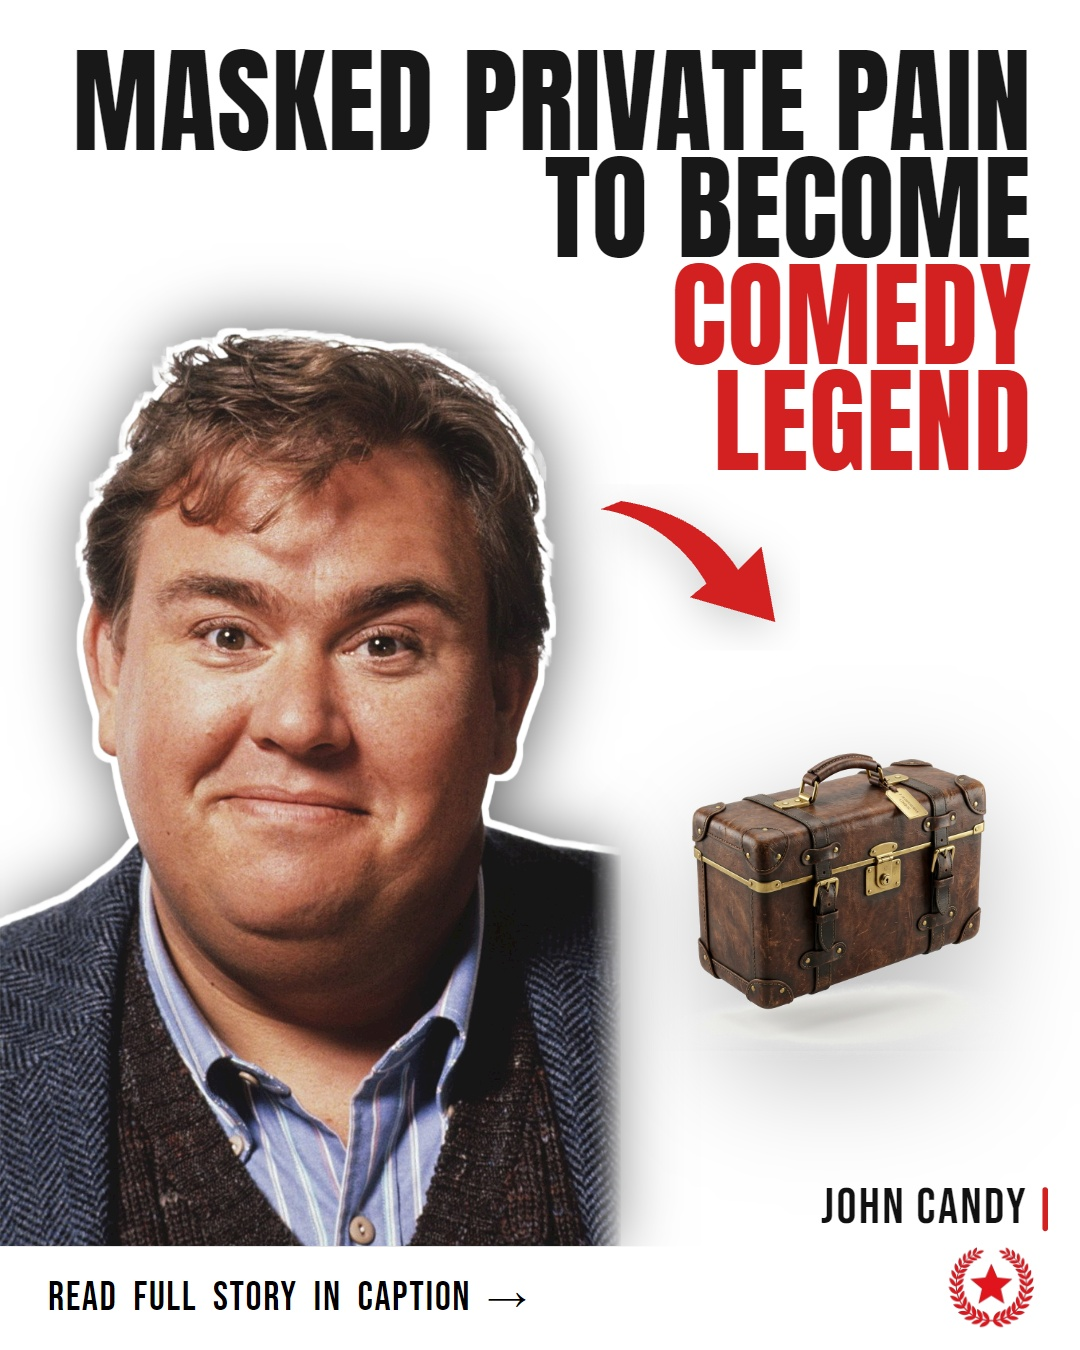
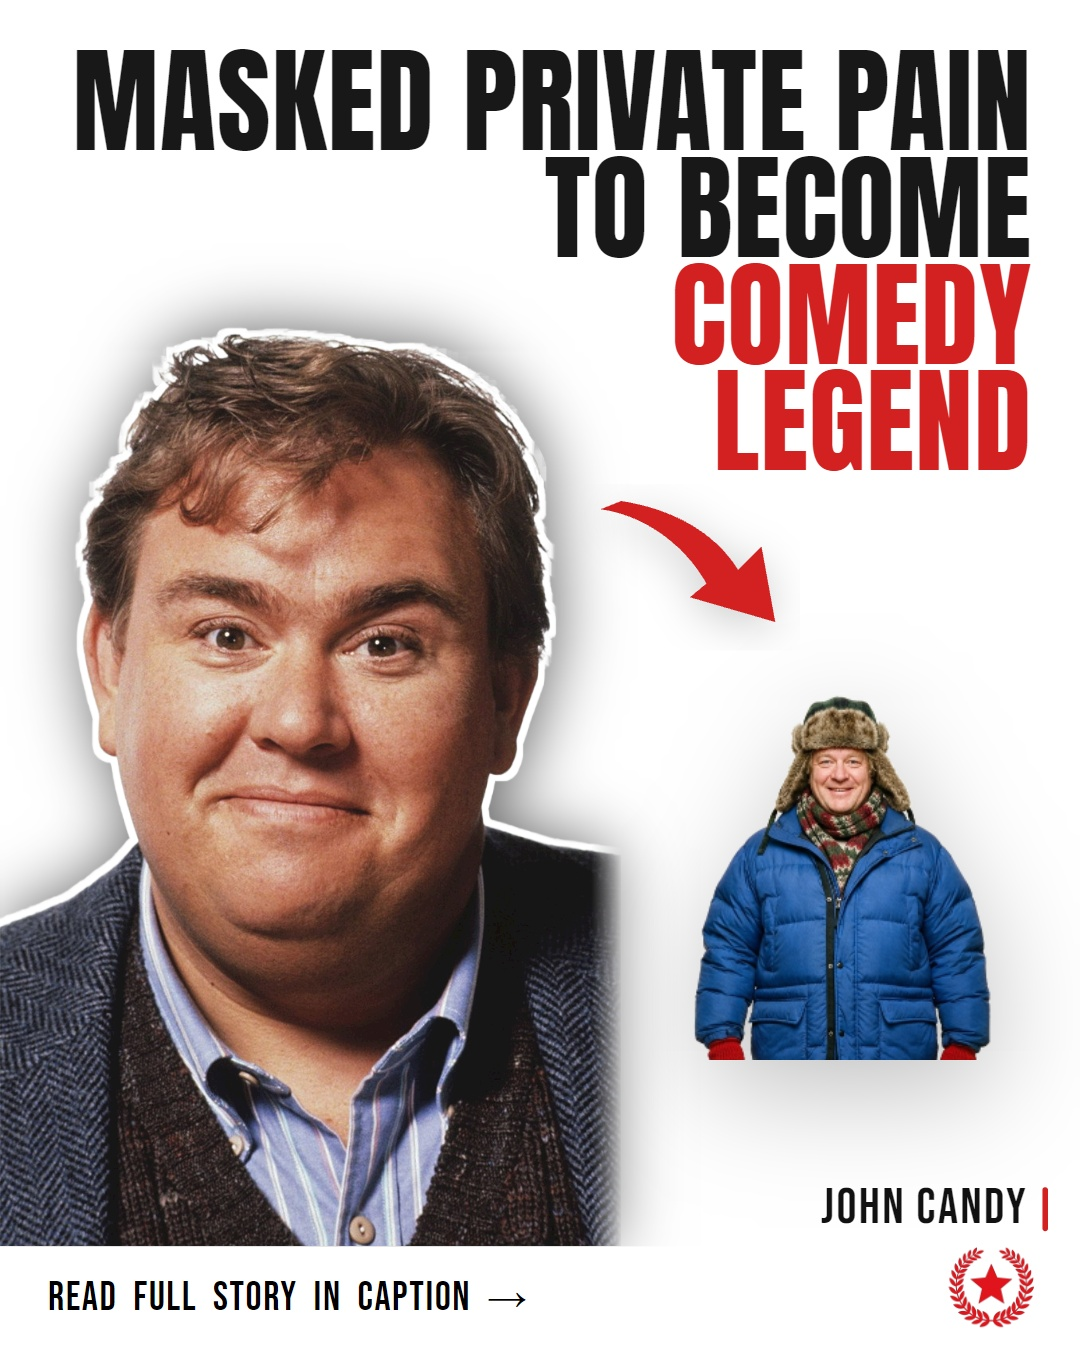
feat: replace generic object props with iconic movie character cutouts (Gollum, Shuri Panther, Del Griffith)

Changed region(s): [[0.6417, 0.4978, 0.9167, 0.8089]]

diff --git a/scripts/make_transparent_cutout.js b/scripts/make_transparent_cutout.js
@@ -1,0 +1,67 @@
+const puppeteer = require('puppeteer');
+const fs = require('fs');
+const path = require('path');
+
+async function makeTransparent(inputPath, outputPath, tolerance = 238) {
+  const browser = await puppeteer.launch({
+    headless: 'new',
+    args: ['--no-sandbox', '--disable-setuid-sandbox']
+  });
+  const page = await browser.newPage();
+  const b64 = fs.readFileSync(inputPath).toString('base64');
+  const mime = inputPath.endsWith('.png') ? 'image/png' : 'image/jpeg';
+  const dataUri = `data:${mime};base64,${b64}`;
+
+  const pngBase64 = await page.evaluate(async (src, tol) => {
+    return new Promise((resolve) => {
+      const img = new Image();
+      img.onload = () => {
+        const canvas = document.createElement('canvas');
+        canvas.width = img.naturalWidth;
+        canvas.height = img.naturalHeight;
+        const ctx = canvas.getContext('2d');
+        ctx.drawImage(img, 0, 0);
+
+        const imgData = ctx.getImageData(0, 0, canvas.width, canvas.height);
+        const data = imgData.data;
+
+        // Background color keying (pure white and near white)
+        for (let i = 0; i < data.length; i += 4) {
+          const r = data[i];
+          const g = data[i + 1];
+          const b = data[i + 2];
+          
+          if (r >= tol && g >= tol && b >= tol) {
+            const minChannel = Math.min(r, g, b);
+            if (minChannel >= 250) {
+              data[i + 3] = 0;
+            } else {
+              // Smooth edge roll-off
+              const factor = (255 - minChannel) / (255 - tol);
+              data[i + 3] = Math.round(data[i + 3] * factor);
+            }
+          }
+        }
+        ctx.putImageData(imgData, 0, 0);
+        resolve(canvas.toDataURL('image/png').split(',')[1]);
+      };
+      img.src = src;
+    });
+  }, dataUri, tolerance);
+
+  await browser.close();
+  fs.writeFileSync(outputPath, Buffer.from(pngBase64, 'base64'));
+  console.log(`[✓] Created transparent cutout: ${outputPath}`);
+}
+
+module.exports = { makeTransparent };
+
+if (require.main === module) {
+  const [,, input, output, tol] = process.argv;
+  if (!input || !output) {
+    console.log('Usage: node make_transparent_cutout.js <input> <output> [tolerance]');
+    process.exit(1);
+  }
+  makeTransparent(input, output, tol ? parseInt(tol) : 238);
+}
+

diff --git a/scripts/build_collage_studio.js b/scripts/build_collage_studio.js
@@ -173,10 +173,24 @@ function getThematicAssetBase64(cleanSlug, post = {}) {
     return post.thematic_asset.asset_b64;
   }
 
+  // If specific asset_filename is specified in post payload
+  if (post.thematic_asset && post.thematic_asset.asset_filename) {
+    const customPath = path.join(THEMATIC_ASSETS_DIR, post.thematic_asset.asset_filename);
+    if (fs.existsSync(customPath)) {
+      return fs.readFileSync(customPath).toString('base64');
+    }
+  }
+
   const s = cleanSlug.toLowerCase();
   let assetFile = null;
 
-  if (s.includes('winona')) {
+  if (s.includes('peter') || s.includes('jackson')) {
+    assetFile = 'peter_gollum_cutout.png';
+  } else if (s.includes('letitia') || s.includes('wright')) {
+    assetFile = 'letitia_shuri_cutout.png';
+  } else if (s.includes('john') || s.includes('candy')) {
+    assetFile = 'john_del_griffith_cutout.png';
+  } else if (s.includes('winona')) {
     assetFile = 'winona_handcuffs_cutout.png';
   } else if (s.includes('richard') || s.includes('dreyfuss')) {
     assetFile = 'richard_book_cutout.png';
